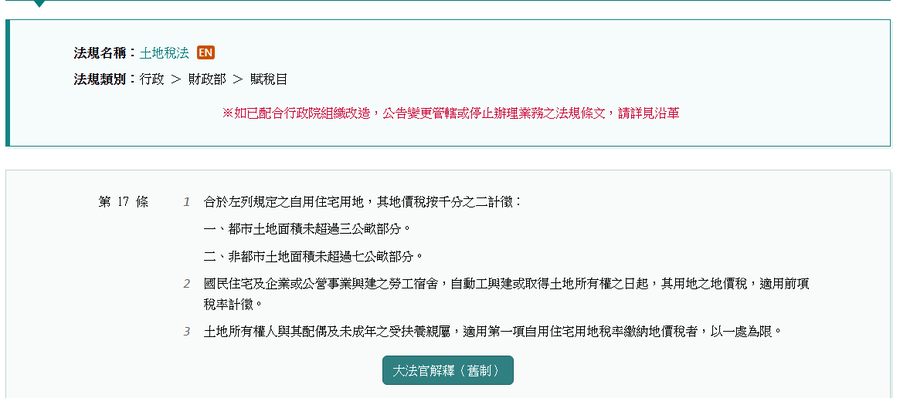
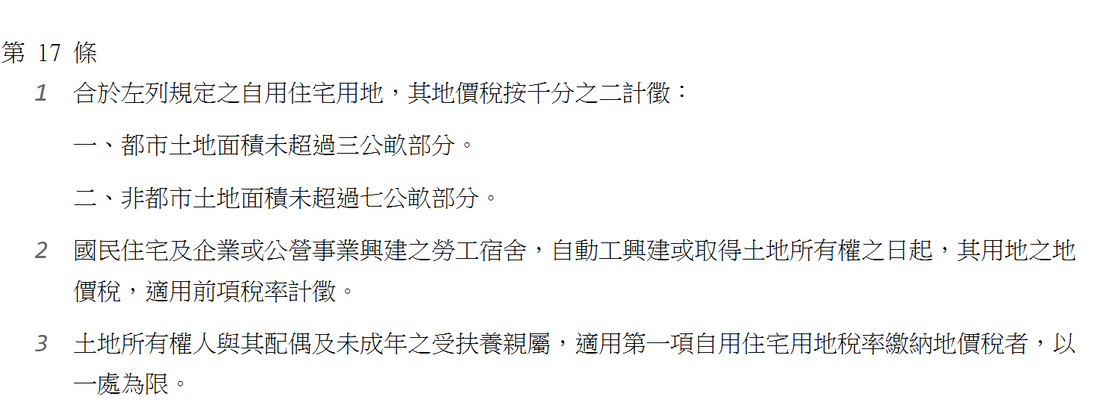
40-0901-01 官方截圖手機可讀性修正：三張重截＋七張全部可點開原圖
實機用 375x812 開線上頁逐張看，發現三張官方截圖在手機上字太小
看不清楚——這等於沒有滿足「乾貨簡報必附官方截圖」那條的立法目的
（民眾要能辨識那一格），不是美觀問題。

根因是截圖時的視窗寬度：原本用 1200px 視窗抓，官方頁的段落排成
又寬又扁的長條（815x116），縮到手機 370px 寬時每個字只剩 7px。

做法：改用 760px 視窗＋device-scale-factor 2 重抓，讓官方頁自己
把段落重排成比較窄、比較高的區塊，再裁切。同一段文字在手機上的
字級從約 7px 變成約 12px。

- 重截三張：財政部稅務入口網稅率段（1100x130，紅框改四個）、
  官方宣導海報面積欄（700x511）、土地稅法第 17 條（1100x411）
- 紅框座標全部依新圖重新量過，不是沿用舊的百分比
- 七張圖全部包成可點開原圖的連結，區段說明加一句「點一下圖片
  可以開原圖放大看」，讓真的要核對細節的人拿得到原始解析度

閘門：lazypack_check.py 0 FAIL 0 WARN／qa_copy_guard.py PASS
標籤開合逐一數過：span/a/figure/figcaption/div/section/ul/ol/
details/script/li/p 全部對稱

Changed region(s): [[0.0, 0.4221, 0.9956, 0.9648], [0.0, 0.0, 0.9956, 0.392], [0.0622, 0.9045, 0.1556, 0.9648]]

diff --git a/dijiashui/index.html b/dijiashui/index.html
@@ -122,6 +122,7 @@
 
     /* ── 官方截圖（共用元件寫法沿用 40-0828-03 ogshot） ── */
     .ogshot{margin:0 0 20px}
+    .ogshot-zoom{display:block;text-decoration:none}
     .ogshot-frame{position:relative;display:block;overflow:hidden;border:1px solid var(--line);border-radius:14px;background:#fff}
     .ogshot-frame img{display:block;width:100%;height:auto}
     .ogshot-frame .mk{position:absolute;left:var(--x);top:var(--y);width:var(--w);height:var(--h);border:3px solid #D9342B;border-radius:5px;pointer-events:none}
@@ -342,15 +343,17 @@
       <section id="guanfang" aria-labelledby="guanfang-title">
         <div class="kicker">不是我說的，是公文上寫的</div>
         <h2 id="guanfang-title">官方公告怎麼寫的</h2>
-        <p class="section-note">下面每一張都是官方網站的實際畫面，紅框標的就是你要看的那一格。出處與擷取日期都寫在圖下面，你可以自己開來對一次。</p>
+        <p class="section-note">下面每一張都是官方網站的實際畫面，紅框標的就是你要看的那一格。手機上字太小的話，<strong>點一下圖片可以開原圖放大看</strong>。出處與擷取日期都寫在圖下面，你可以自己開來對一次。</p>
 
         <figure class="ogshot">
-          <span class="ogshot-frame">
+          <a class="ogshot-zoom" href="img/hukou-buzidong-shengxiao_TY_20260901.png" target="_blank" rel="noopener noreferrer" aria-label="開啟原圖放大">
+            <span class="ogshot-frame">
             <img src="img/hukou-buzidong-shengxiao_TY_20260901.png" width="850" height="340" loading="lazy" decoding="async" alt="桃園市政府地方稅務局稅務訊息頁面，標題寫地價稅自用住宅用地及房屋稅自住住家用優惠稅率不因遷入戶籍而自動生效，內文說明民眾常誤以為戶籍遷入等於完成申請，以及跨機關通報只針對所有權人本人">
             <span class="mk" style="--x:1.4%;--y:4.1%;--w:95.1%;--h:22.9%"><i>1</i></span>
             <span class="mk" style="--x:35.3%;--y:47.1%;--w:60.6%;--h:10.6%"><i>2</i></span>
             <span class="mk" style="--x:1.4%;--y:82.9%;--w:76.5%;--h:10.0%"><i>3</i></span>
           </span>
+          </a>
           <figcaption>
             <b>你要看的是這三格：標題、常見誤解、通報的例外</b>
             ①標題直接把結論寫在最前面——優惠稅率<strong>不因遷入戶籍而自動生效</strong>。
@@ -361,12 +364,14 @@
         </figure>
 
         <figure class="ogshot">
-          <span class="ogshot-frame">
+          <a class="ogshot-zoom" href="img/liangge-qixian-322-922_TY_20260901.png" target="_blank" rel="noopener noreferrer" aria-label="開啟原圖放大">
+            <span class="ogshot-frame">
             <img src="img/liangge-qixian-322-922_TY_20260901.png" width="850" height="156" loading="lazy" decoding="async" alt="桃園市政府地方稅務局公告段落，說明須於房屋稅或地價稅開徵四十日以前提出申報，房屋稅應於每年三月二十二日前，地價稅應於九月二十二日前申請，逾期申報自次期年起適用">
             <span class="mk" style="--x:10.1%;--y:37.2%;--w:31.6%;--h:23.1%"><i>1</i></span>
             <span class="mk" style="--x:42.4%;--y:37.2%;--w:31.8%;--h:23.1%"><i>2</i></span>
             <span class="mk" style="--x:45.4%;--y:65.4%;--w:43.4%;--h:23.1%"><i>3</i></span>
           </span>
+          </a>
           <figcaption>
             <b>兩個稅、兩個期限，就寫在同一句話裡</b>
             ①房屋稅應於每年 3 月 22 日前。②地價稅應於 9 月 22 日前申請，該迄日如遇假日則順延。③如逾期申報，則將自次期（年）起適用。
@@ -375,12 +380,14 @@
         </figure>
 
         <figure class="ogshot">
-          <span class="ogshot-frame">
+          <a class="ogshot-zoom" href="img/shiyong-tiaojian-gongmu_TY_20260901.png" target="_blank" rel="noopener noreferrer" aria-label="開啟原圖放大">
+            <span class="ogshot-frame">
             <img src="img/shiyong-tiaojian-gongmu_TY_20260901.png" width="850" height="284" loading="lazy" decoding="async" alt="桃園市政府地方稅務局公告段落，逐條列出地價稅適用自用住宅用地稅率的五項條件與房屋稅自住住家用稅率的三項條件">
             <span class="mk" style="--x:5.9%;--y:31.0%;--w:29.4%;--h:12.7%"><i>1</i></span>
             <span class="mk" style="--x:34.8%;--y:31.0%;--w:63.8%;--h:12.7%"><i>2</i></span>
             <span class="mk" style="--x:5.9%;--y:45.1%;--w:61.2%;--h:12.7%"><i>3</i></span>
           </span>
+          </a>
           <figcaption>
             <b>五個條件裡，最常卡住的是後面這三格</b>
             ①無出租或供營業使用之情形。②都市土地面積 3 公畝、非都市土地面積 7 公畝為限。③土地所有權人與配偶及未成年之受扶養親屬，以一處為限。
@@ -390,26 +397,31 @@
         </figure>
 
         <figure class="ogshot">
-          <span class="ogshot-frame">
-            <img src="img/shuilv-2yong-vs-1055_TP_20260901.png" width="815" height="116" loading="lazy" decoding="async" alt="財政部稅務入口網刊登臺北市稅捐稽徵處說明，地價稅一般用地稅率為千分之十至千分之五十五，符合自用住宅用地條件者可適用千分之二優惠稅率，與一般用地比較稅額至少相差四倍">
-            <span class="mk" style="--x:12.3%;--y:5.2%;--w:29.4%;--h:27.6%"><i>1</i></span>
-            <span class="mk" style="--x:72.4%;--y:5.2%;--w:16.0%;--h:27.6%"><i>2</i></span>
-            <span class="mk" style="--x:1.2%;--y:34.5%;--w:29.4%;--h:27.6%"><i>3</i></span>
+          <a class="ogshot-zoom" href="img/shuilv-2yong-vs-1055_TP_20260901.png" target="_blank" rel="noopener noreferrer" aria-label="開啟原圖放大">
+            <span class="ogshot-frame">
+            <img src="img/shuilv-2yong-vs-1055_TP_20260901.png" width="1100" height="130" loading="lazy" decoding="async" alt="財政部稅務入口網刊登臺北市稅捐稽徵處說明，地價稅一般用地稅率為千分之十至千分之五十五，符合自用住宅用地條件者可適用千分之二優惠稅率，與一般用地比較稅額至少相差四倍">
+            <span class="mk" style="--x:18.0%;--y:3.1%;--w:40.9%;--h:30.8%"><i>1</i></span>
+            <span class="mk" style="--x:18.7%;--y:33.8%;--w:24.7%;--h:30.8%"><i>2</i></span>
+            <span class="mk" style="--x:45.0%;--y:33.8%;--w:35.5%;--h:30.8%"><i>3</i></span>
+            <span class="mk" style="--x:0.4%;--y:64.6%;--w:6.0%;--h:30.8%"><i>4</i></span>
           </span>
+          </a>
           <figcaption>
             <b>「至少相差 4 倍」這句話的原文長這樣</b>
-            ①地價稅一般用地稅率為 10‰ 至 55‰。②符合自用住宅用地條件者，可適用 2‰ 優惠稅率。③與一般用地比較稅額<strong>至少相差 4 倍</strong>。
+            ①地價稅一般用地稅率為 10‰ 至 55‰。②符合自用住宅用地條件者，可適用 2‰ 優惠稅率。③與一般用地比較稅額<strong>至少相差</strong>，④下一行接<strong>4 倍</strong>。
             這一則是 111 年的公告，年度寫的是當年；稅率與條件本身出自土地稅法，沒有變動，所以這句比較仍然成立。
             <span class="src">出處｜財政部稅務入口網 最新消息「請留意 今年地價稅優惠稅率申請期限至9月22日止」（發佈單位：臺北市稅捐稽徵處・更新日期 111-09-16）・擷取日期 2026-09-01</span>
           </figcaption>
         </figure>
 
         <figure class="ogshot">
-          <span class="ogshot-frame">
-            <img src="img/tiaojian-haibao-mianji_TP_20260901.png" width="344" height="300" loading="lazy" decoding="async" alt="臺北市稅捐稽徵處宣導海報中的適用自用住宅用地稅率條件欄位，列出五項條件，其中面積欄寫都市土地面積三百平方公尺內、非都市土地面積七百平方公尺內">
-            <span class="mk" style="--x:8.7%;--y:60.7%;--w:87.2%;--h:12.0%"><i>1</i></span>
-            <span class="mk" style="--x:8.7%;--y:74.0%;--w:87.2%;--h:15.3%"><i>2</i></span>
+          <a class="ogshot-zoom" href="img/tiaojian-haibao-mianji_TP_20260901.png" target="_blank" rel="noopener noreferrer" aria-label="開啟原圖放大">
+            <span class="ogshot-frame">
+            <img src="img/tiaojian-haibao-mianji_TP_20260901.png" width="700" height="511" loading="lazy" decoding="async" alt="臺北市稅捐稽徵處宣導海報中的適用自用住宅用地稅率條件欄位，列出五項條件，其中面積欄寫都市土地面積三百平方公尺內、非都市土地面積七百平方公尺內">
+            <span class="mk" style="--x:20.0%;--y:67.5%;--w:68.6%;--h:11.7%"><i>1</i></span>
+            <span class="mk" style="--x:20.0%;--y:83.2%;--w:69.3%;--h:11.7%"><i>2</i></span>
           </span>
+          </a>
           <figcaption>
             <b>公畝聽不懂沒關係，官方海報自己換算過了</b>
             ①官方海報把面積上限寫成都市土地 300 平方公尺（90.75 坪）內、非都市土地 700 平方公尺（211.75 坪）內。
@@ -420,12 +432,14 @@
         </figure>
 
         <figure class="ogshot">
-          <span class="ogshot-frame">
+          <a class="ogshot-zoom" href="img/115-kaizheng-922_NTPC_20260901.png" target="_blank" rel="noopener noreferrer" aria-label="開啟原圖放大">
+            <span class="ogshot-frame">
             <img src="img/115-kaizheng-922_NTPC_20260901.png" width="900" height="250" loading="lazy" decoding="async" alt="新北市政府稅捐稽徵處稅務公告，本市115年地價稅定於115年11月1日開徵，請土地所有權人於115年9月22日前提出申請，逾期申請者自申請之次年起減免，發布日期115年7月23日">
             <span class="mk" style="--x:22.8%;--y:2.4%;--w:20.6%;--h:12.8%"><i>1</i></span>
             <span class="mk" style="--x:12.2%;--y:16.0%;--w:24.4%;--h:12.8%"><i>2</i></span>
             <span class="mk" style="--x:20.6%;--y:71.2%;--w:12.8%;--h:10.8%"><i>3</i></span>
           </span>
+          </a>
           <figcaption>
             <b>今年的實際日期，公告上寫得很直白</b>
             ①115 年地價稅定於 115 年 11 月 1 日開徵。②請土地所有權人於 115 年 9 月 22 日前提出申請，逾期申請者，自申請之次年起減免。③發布日期 115-07-23，是今年的公告不是舊稿。
@@ -435,11 +449,13 @@
         </figure>
 
         <figure class="ogshot">
-          <span class="ogshot-frame">
-            <img src="img/tudishuifa-17_MOJ_20260901.png" width="900" height="398" loading="lazy" decoding="async" alt="全國法規資料庫土地稅法第十七條條文內容，自用住宅用地地價稅按千分之二計徵，都市土地面積未超過三公畝部分、非都市土地面積未超過七公畝部分，並規定以一處為限">
-            <span class="mk" style="--x:21.1%;--y:47.2%;--w:38.9%;--h:19.3%"><i>1</i></span>
-            <span class="mk" style="--x:21.1%;--y:79.4%;--w:65.0%;--h:8.0%"><i>2</i></span>
+          <a class="ogshot-zoom" href="img/tudishuifa-17_MOJ_20260901.png" target="_blank" rel="noopener noreferrer" aria-label="開啟原圖放大">
+            <span class="ogshot-frame">
+            <img src="img/tudishuifa-17_MOJ_20260901.png" width="1100" height="411" loading="lazy" decoding="async" alt="全國法規資料庫土地稅法第十七條條文內容，自用住宅用地地價稅按千分之二計徵，都市土地面積未超過三公畝部分、非都市土地面積未超過七公畝部分，並規定以一處為限">
+            <span class="mk" style="--x:5.5%;--y:18.2%;--w:58.2%;--h:34.8%"><i>1</i></span>
+            <span class="mk" style="--x:5.5%;--y:78.3%;--w:86.4%;--h:17.8%"><i>2</i></span>
           </span>
+          </a>
           <figcaption>
             <b>回到法條本身，只有兩句要記</b>
             ①合於左列規定之自用住宅用地，其地價稅按千分之二計徵：都市土地面積未超過三公畝部分、非都市土地面積未超過七公畝部分。
